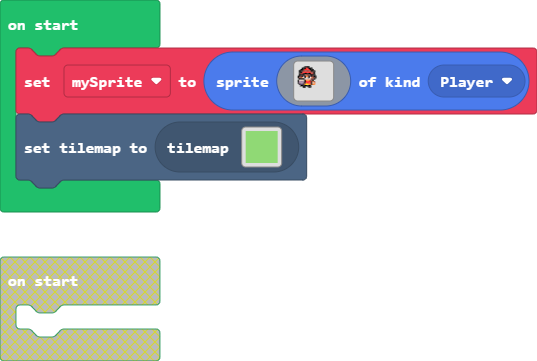
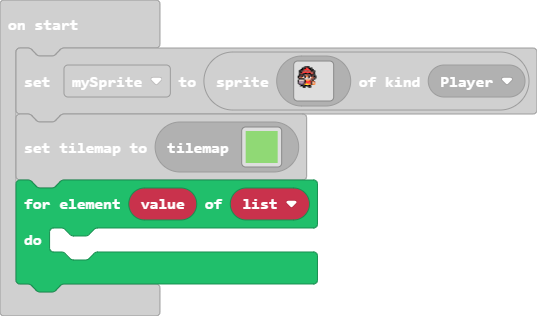
resolving

diff --git a/main.ts b/main.ts
@@ -1,3 +1,4 @@
+let list: number[] = []
 let mySprite = sprites.create(img`
     ........................
     .....ffff...............
